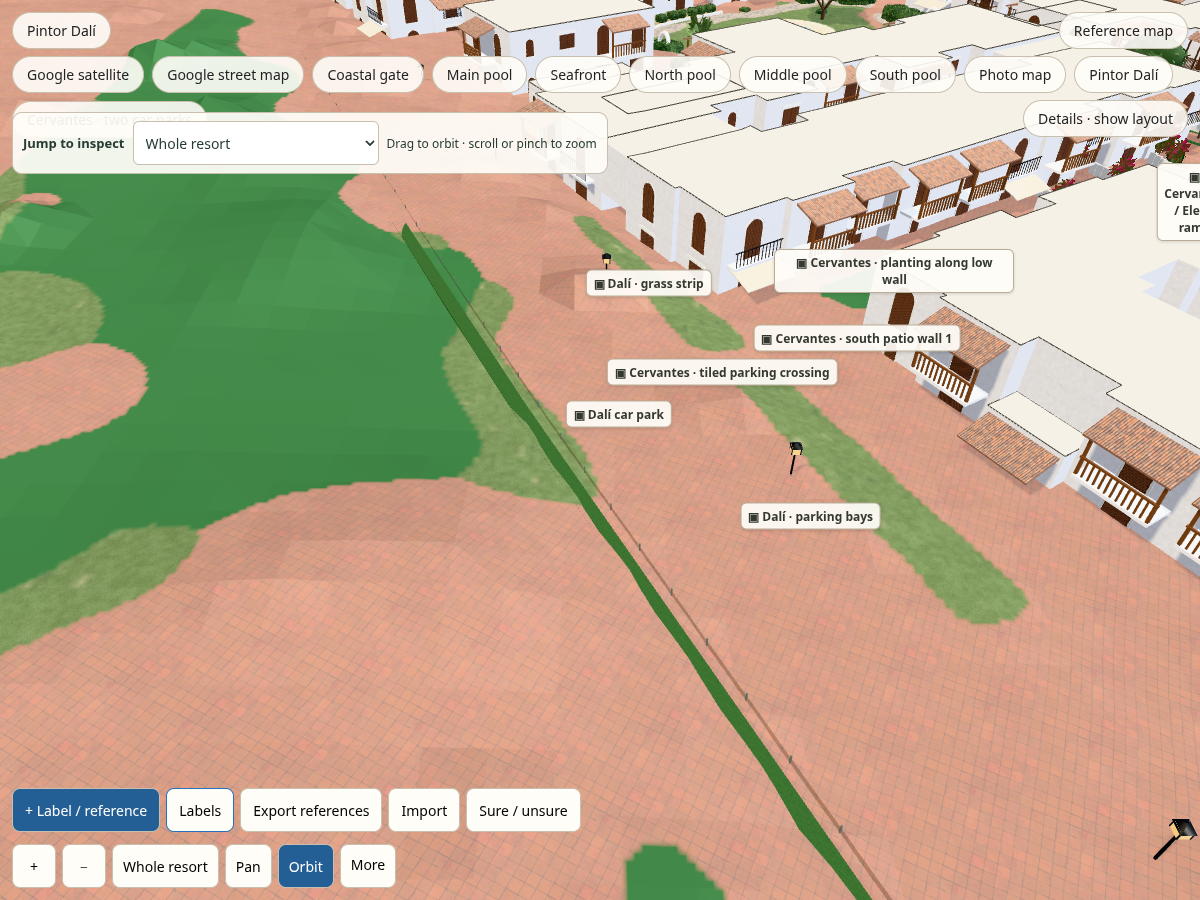
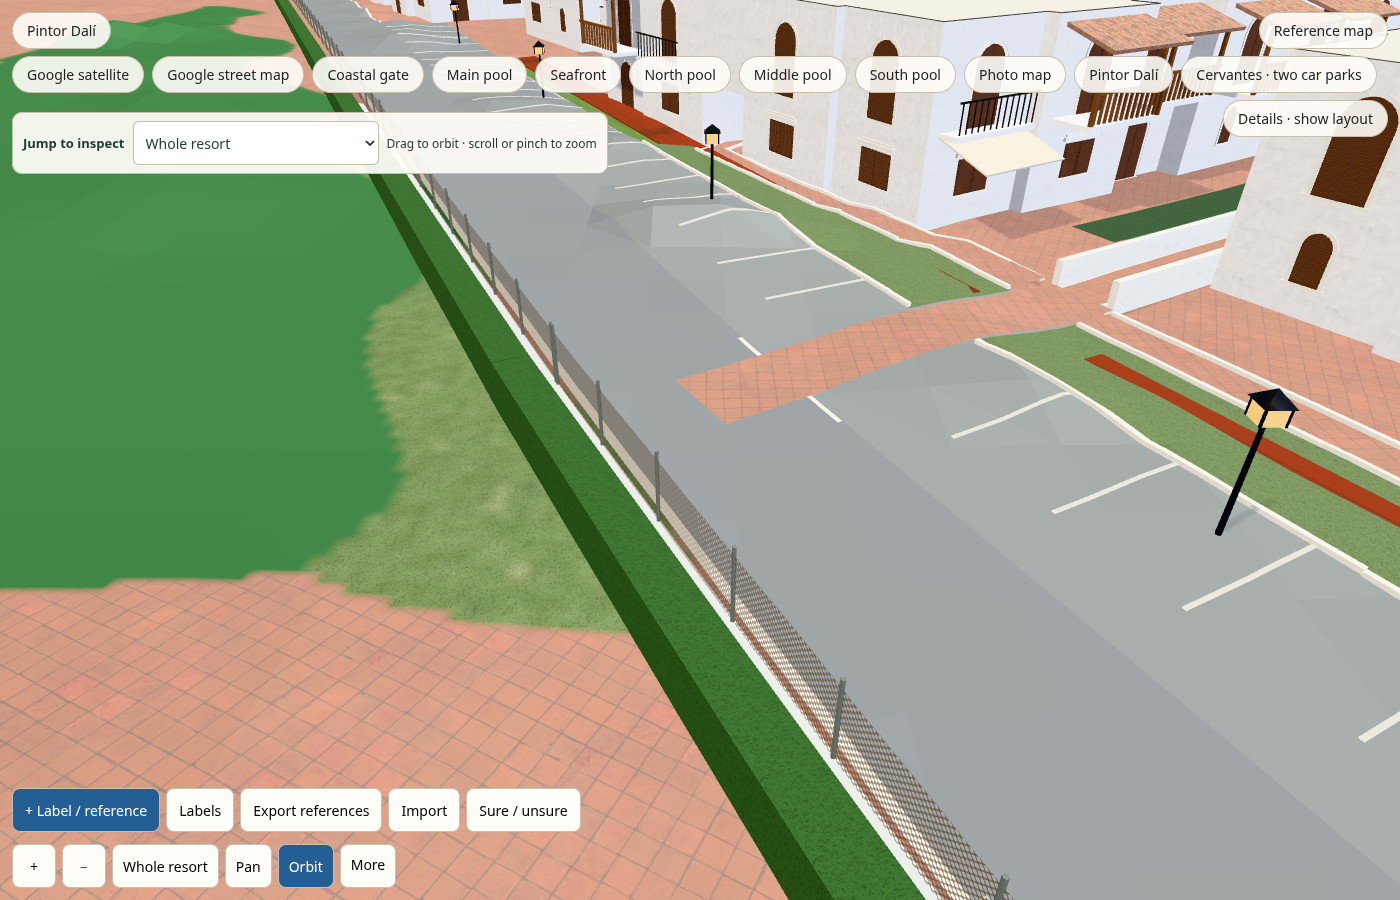
Separate the Dalí sidewalk from the asphalt and show the street closer.
The ground sheet was lifted onto the same plane as the road, so the terracotta cover hid the asphalt. The sheet stays below the road again. A white kerb, grass strip and tiled sidewalk run along the house side of the parking bays, and the camera starts close enough to see them, the hedge and the lanterns.

diff --git a/src/dali-street.ts b/src/dali-street.ts
@@ -1,6 +1,9 @@
 import * as THREE from "three";
 import street from "../data/dali_street.json";
 import layout from "../data/dali_cervantes.json";
+import sills from "../data/door_sills.json";
+import skeleton from "../public/map/skeleton.json";
+import { pointInRing } from "./geom";
 import { surfaceTexture } from "./materials";
 import type { Vec2 } from "./types";
 
@@ -36,7 +39,76 @@ function box(w: number, h: number, d: number, material: THREE.Material, name: st
   return mesh;
 }
 
-/** Plinth and curb on the existing fence. Hedge and lanterns are Details and stay off the routes. */
+const road = layout.roads.find((r) => r.id === "dali")!;
+
+function roadHit(p: Vec2): { d: number; x: number; z: number } {
+  let best = Infinity, x = p[0], z = p[1];
+  for (let i = 0; i < road.points.length - 1; i++) {
+    const a = road.points[i], b = road.points[i + 1];
+    const dx = b[0] - a[0], dz = b[1] - a[1], l2 = dx * dx + dz * dz || 1;
+    const t = Math.max(0, Math.min(1, ((p[0] - a[0]) * dx + (p[1] - a[1]) * dz) / l2));
+    const qx = a[0] + dx * t, qz = a[1] + dz * t, d = Math.hypot(p[0] - qx, p[1] - qz);
+    if (d < best) { best = d; x = qx; z = qz; }
+  }
+  return { d: best, x, z };
+}
+
+/** House side of a bay: the edge farthest from the asphalt. */
+function houseEdge(ring: Vec2[]): [Vec2, Vec2] | null {
+  const order = ring.map((p, i) => ({ i, d: roadHit(p).d })).sort((a, b) => b.d - a.d);
+  const i = order[0].i, j = order[1].i, n = ring.length;
+  if (Math.min(Math.abs(i - j), n - Math.abs(i - j)) !== 1) return null;
+  return [ring[i], ring[j]];
+}
+
+function onBuiltFootpath(p: Vec2): boolean {
+  const k = sills.footpathKerb;
+  const dx = p[0] - k.origin[0], dz = p[1] - k.origin[1];
+  const along = dx * k.along[0] + dz * k.along[1];
+  const across = dx * k.toward[0] + dz * k.toward[1];
+  return along > -2 && along < k.length + 2 && across > -1 && across < k.width + 1;
+}
+
+function insideHouse(p: Vec2): boolean {
+  return skeleton.buildings.some((b) => pointInRing(p[0], p[1], b.ring as Vec2[]));
+}
+
+/**
+ * The house-side walk is not the asphalt. IMG_2292, IMG_2267 and IMG_2268 show a
+ * white kerb, a grass strip and terracotta tiles beside the parking. The measured
+ * stretch between Eva and Patricia is already in door-sills; this continues that
+ * edge along the other bay runs. Widths are estimated from those photos.
+ */
+function addSidewalk(group: THREE.Group): void {
+  const tiles = new THREE.MeshStandardMaterial({ color: "#c56b45", map: surfaceTexture("paving"), roughness: 0.92 });
+  const grass = new THREE.MeshStandardMaterial({ color: "#6d8a48", map: surfaceTexture("turf"), roughness: 1 });
+  const kerbMat = new THREE.MeshStandardMaterial({ color: "#f7f4ee", roughness: 0.7 });
+  const kerbW = 0.16, lawnW = 0.9, pathW = 1.5;
+  for (const ring of layout.parking.bayRings as Vec2[][]) {
+    const edge = houseEdge(ring);
+    if (!edge) continue;
+    const [a, b] = edge;
+    const mid: Vec2 = [(a[0] + b[0]) / 2, (a[1] + b[1]) / 2];
+    if (onBuiltFootpath(mid)) continue;
+    const hit = roadHit(mid);
+    const n = Math.hypot(mid[0] - hit.x, mid[1] - hit.z) || 1;
+    const ox = (mid[0] - hit.x) / n, oz = (mid[1] - hit.z) / n;
+    const walkMid: Vec2 = [mid[0] + ox * (kerbW + lawnW + pathW / 2), mid[1] + oz * (kerbW + lawnW + pathW / 2)];
+    if (insideHouse(walkMid)) continue;
+    const length = Math.hypot(b[0] - a[0], b[1] - a[1]);
+    const angle = -Math.atan2(b[1] - a[1], b[0] - a[0]);
+    const place = (width: number, shift: number, height: number, y: number, material: THREE.Material, name: string) => {
+      const mesh = box(length, height, width, material, name, mid[0] + ox * shift, y, mid[1] + oz * shift, angle);
+      mesh.userData.structural = true;
+      group.add(mesh);
+    };
+    place(kerbW, kerbW / 2, 0.16, 0.42, kerbMat, "dali-sidewalk-kerb");
+    place(lawnW, kerbW + lawnW / 2, 0.05, 0.34, grass, "dali-sidewalk-lawn");
+    place(pathW, kerbW + lawnW + pathW / 2, 0.06, 0.38, tiles, "dali-sidewalk");
+  }
+}
+
+/** Plinth, curb and the house-side sidewalk. Hedge and lanterns are Details. */
 export function addDaliStreet(scene: THREE.Scene): void {
   const group = new THREE.Group();
   group.name = "dali-street-scene";
@@ -55,6 +127,7 @@ export function addDaliStreet(scene: THREE.Scene): void {
     group.add(plinth);
     group.add(box(length, curbHeight, curbWidth, white, street.fence.id + "-curb", mid[0] - ox * curbOffset, curbBase + curbHeight / 2, mid[1] - oz * curbOffset, -angle));
   }
+  addSidewalk(group);
   scene.add(group);
   if (scene.userData.layoutOnly) return;
   const clear = scene.userData.decorationClearance as ((x: number, z: number, radius: number) => boolean) | undefined;

diff --git a/src/references.ts b/src/references.ts
@@ -86,10 +86,10 @@ export function referenceEditor(options: {
   let points: ReferencePoint[]=[];
   let loadWarning="";
   try { points=validPoints(JSON.parse(localStorage.getItem(KEY)??"[]")); } catch { loadWarning="Saved references could not be read. Export your current references before leaving."; }
-  let armed=false, selected:ReferencePoint|null=null, hidden=false;
+  let armed=false, selected:ReferencePoint|null=null, hidden=true;
   const layer=document.createElement("div");layer.className="reference-layer";document.body.append(layer);
   const tools=document.createElement("div");tools.className="reference-tools";
-  tools.innerHTML='<button id="ref-add" type="button">+ Label / reference</button><button id="ref-labels" type="button" aria-pressed="true">Labels</button><button id="ref-export" type="button">Export references</button><button id="ref-import" type="button">Import</button><input id="ref-file" type="file" accept="application/json,.json" hidden><span id="ref-status" role="status" aria-live="polite"></span>';
+  tools.innerHTML='<button id="ref-add" type="button">+ Label / reference</button><button id="ref-labels" type="button" aria-pressed="false">Labels</button><button id="ref-export" type="button">Export references</button><button id="ref-import" type="button">Import</button><input id="ref-file" type="file" accept="application/json,.json" hidden><span id="ref-status" role="status" aria-live="polite"></span>';
   document.body.append(tools);
   const confidence=confidenceOverlay({toolbar:tools,project:options.project,enabled:()=>options.enabled?.()??true});
   const dialog=document.createElement("dialog");dialog.className="reference-dialog";

diff --git a/src/slice.ts b/src/slice.ts
@@ -288,7 +288,7 @@ async function boot(): Promise<void> {
     spawn[0] = best.x; spawn[1] = best.z;
     start.x = best.x + 5; start.z = best.z + 12;
     document.querySelector("#title")!.textContent = "Pintor Dalí";
-    inspectAt = { x: best.x, z: best.z, distance: 42, pitch: 0.72 };
+    inspectAt = { x: best.x, z: best.z, distance: 18, pitch: 0.58 };
   }
   if (connectionFocus && skeleton.boundaryReference?.connection) {
     const road = skeleton.boundaryReference.roads.find((r) => r.id === "cervantes" || r.name === "Calle Cervantes" || r.name === "Calle Miguel de Cervantes")!;
@@ -820,10 +820,6 @@ async function addGround(scene: THREE.Scene, skeleton: Skeleton, centre: { x: nu
   ground.receiveShadow = true;
   ground.userData.referenceSurface=true;
   scene.add(ground);
-  scene.updateMatrixWorld(true);
-  const flatGround = ground.geometry;
-  ground.geometry = refine(flatGround, siteY, ground.matrixWorld);
-  if (ground.geometry !== flatGround) flatGround.dispose();
   // Close the exposed sides of the ground cut at its existing slab boundary.
   // This visual fill changes neither top surfaces nor walking/collision heights.
   if(cutSilvia){
